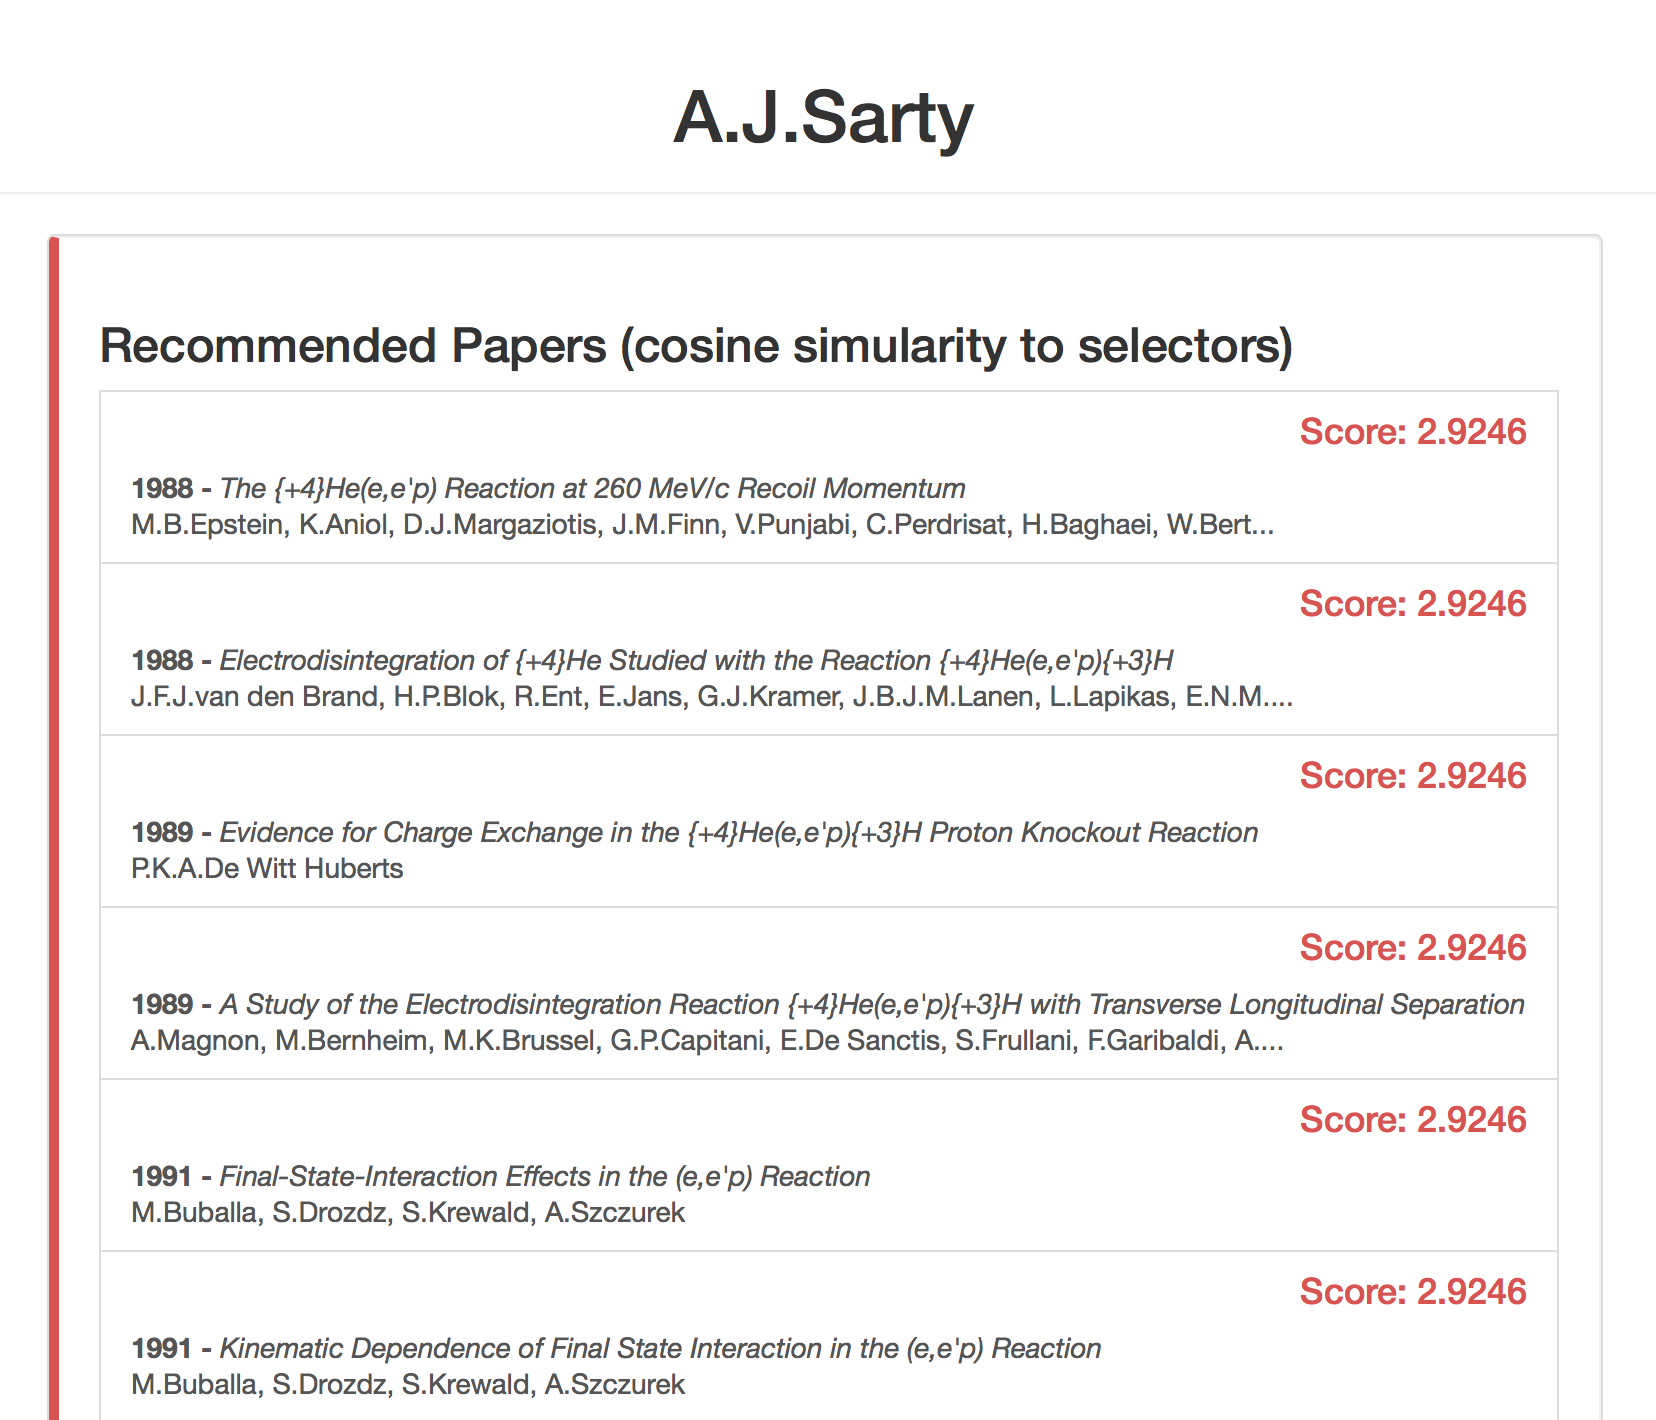
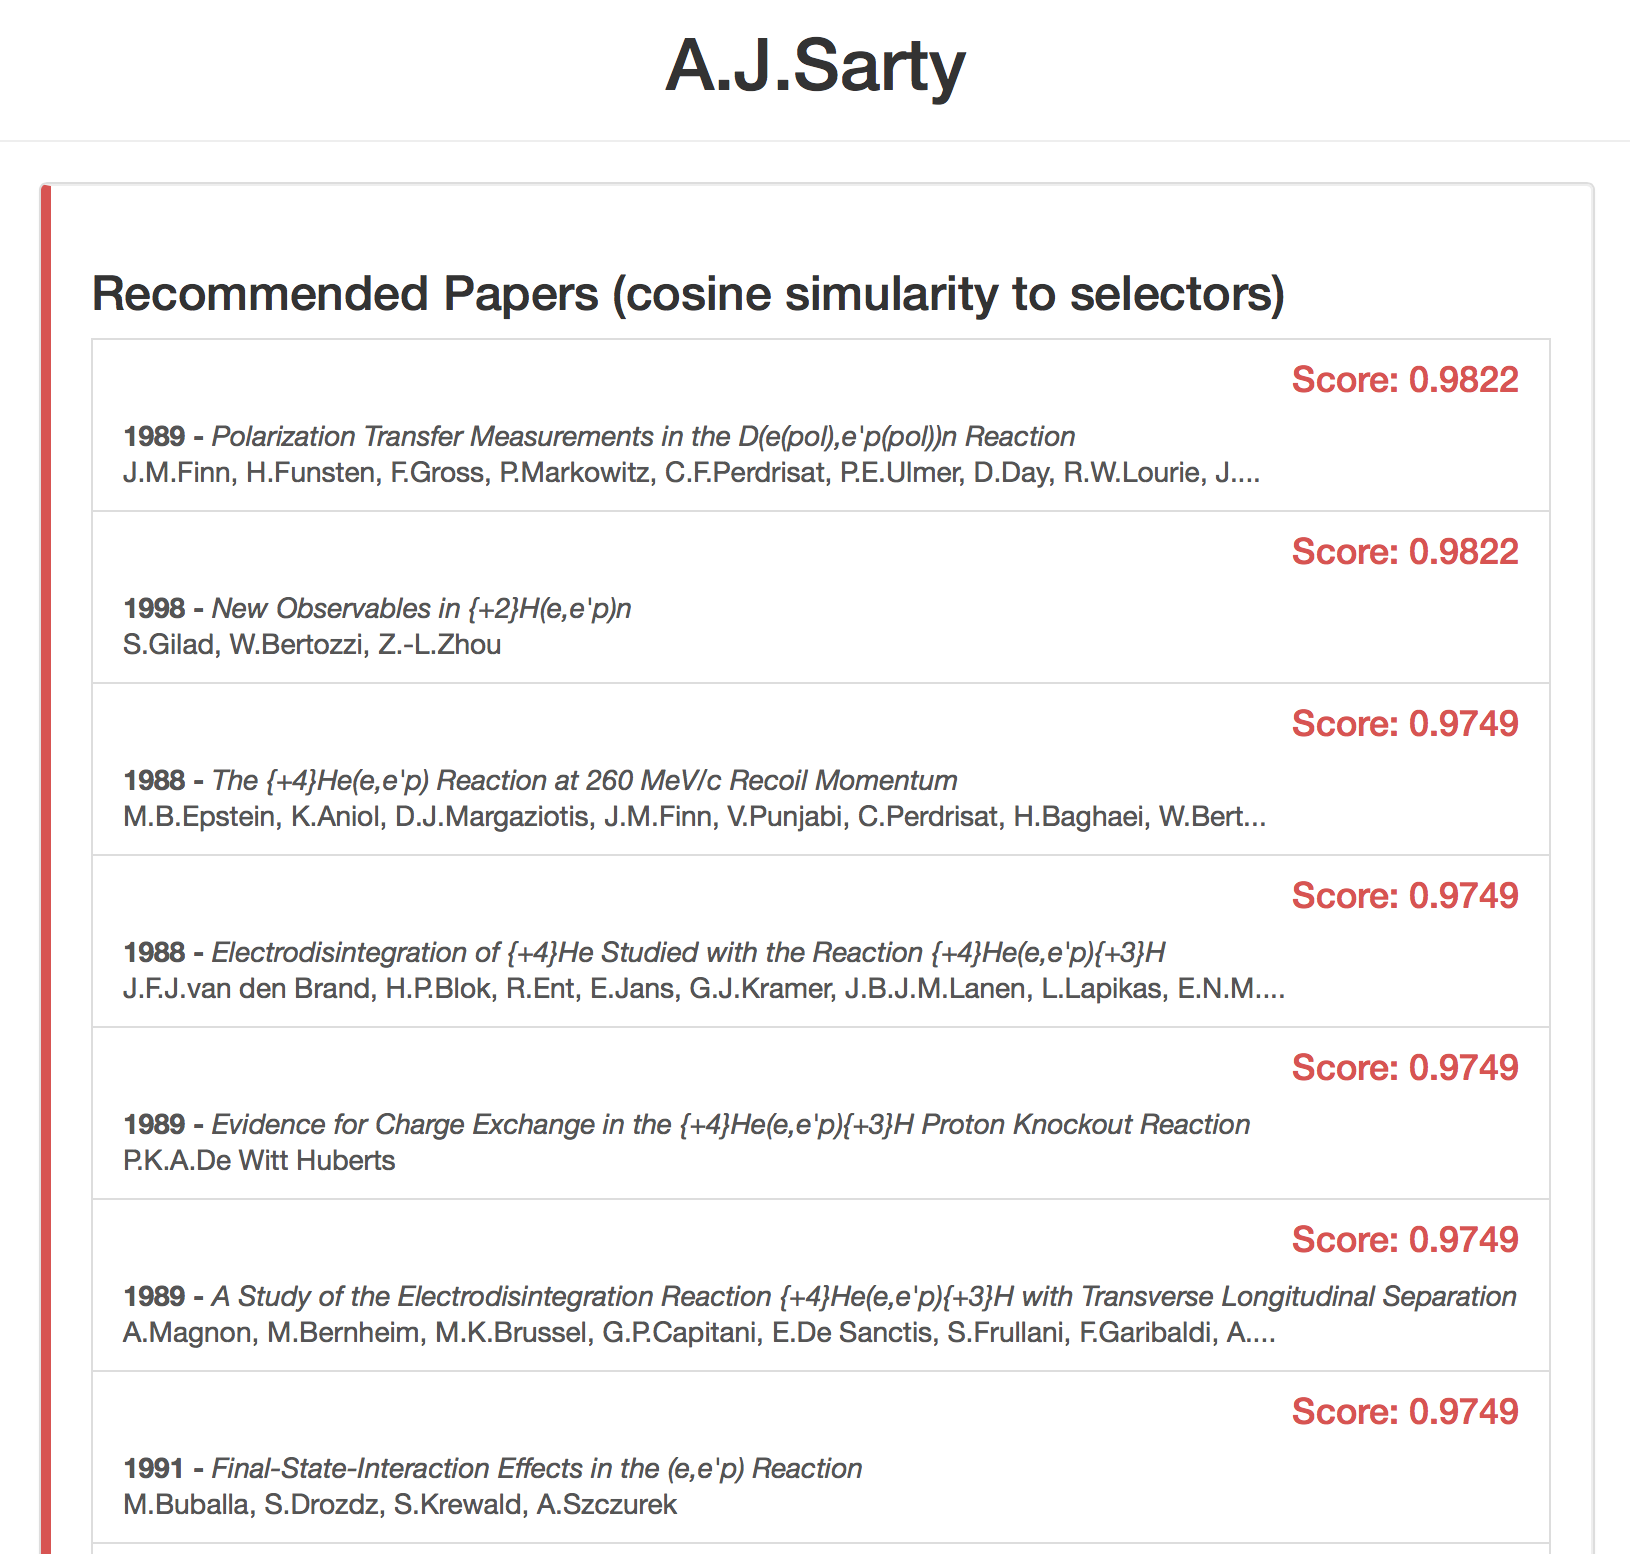
Updated to reflect avg scoring function

diff --git a/documents/thesis/thesis.md b/documents/thesis/thesis.md
@@ -883,11 +883,14 @@ At this stage we have a list of `_id`s that are similar to one or more NSR entri
 We fetch the NSR entry for the full list of `_id`s and filter out any that were published by the inputted author.
 Because the similarity ranking considers the selectors used and authors often publish multiple times using similar selectors, the recommended papers often include ones written by the same authors as the inputted paper.
 
-%- TODO I have not written about the scoring function
 %- Web app
 The render object is then prepared to be sent to the html template to show the user.
 The end user then sees a web page with the search author in prominent text followed by a list of papers that have a cosine similarity to at least one of their own papers greater than 0.65.
 An example for author "A.J.Sarty" is shown in Figure @fig:simpapers-author.
+The similar papers are sorting in descending order of their score function value.
+The scoring function is the average of all the `score` fields for that paper that were encountered in the aggregation.[^multiple-scores]
+
+[^multiple-scores]: Because we fetch the `simPapers` array for multiple papers when searching for an author's similar papers, we can see the same `_id` multiple times and with different scores each time.
 
 ![Similar papers for author "A.J.Sarty"](images/simpapers-author.png) {#fig:simpapers-author}
 
